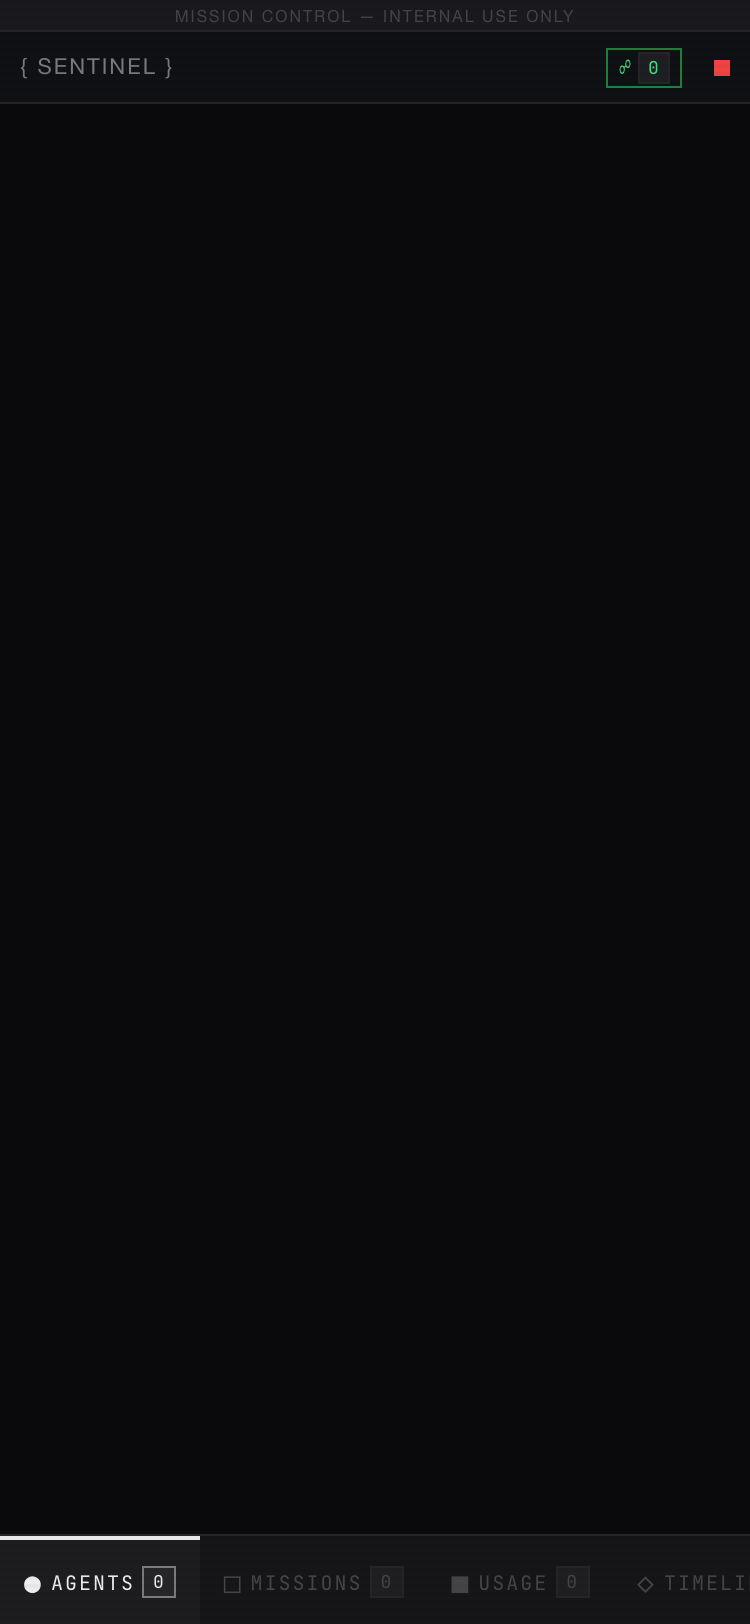
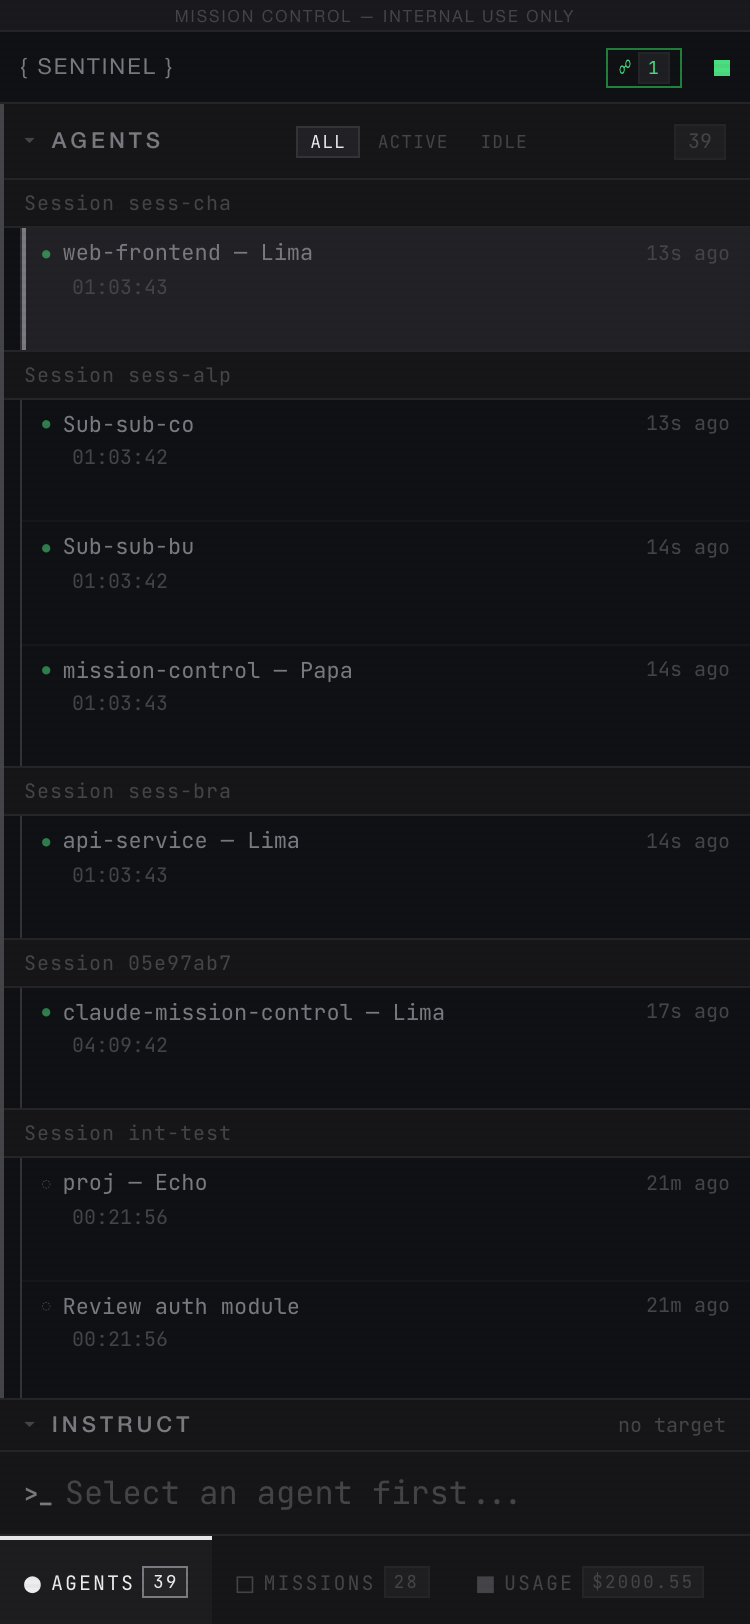
docs: refresh all screenshots and rewrite mission board section
Screenshots retaken with latest UI showing:
- Agent filter tabs (ALL/ACTIVE/IDLE)
- Auto-created missions from agent activity
- CLEAR COMPLETED button
- Context health bars with real session data

Mission Board section rewritten with:
- Code block showing the auto-creation flow
- Table of auto-mission sources with examples
- Managing missions feature table

diff --git a/README.md b/README.md
@@ -201,20 +201,38 @@ Each agent row shows rich, at-a-glance status:
 
 ### Mission Board
 
-Missions are **auto-created** from agent activity — you don't need to set them up manually.
+**Zero setup required.** Missions auto-create from agent activity — you never have to manually add them.
 
-| Source | How It Creates a Mission |
-|--------|------------------------|
-| **Subagent spawn** | Uses the `description` from the Agent tool (e.g. "Fix build errors", "Code review") |
-| **Main agent first tool call** | Derives from project folder + first action (e.g. "mission-control — server.ts") |
-| **Session end (Stop)** | Auto-completes the agent's active mission |
+When a Claude Code agent starts working, Mission Control automatically creates a mission for it:
+
+```
+Agent starts editing src/auth.ts in /projects/my-app
+    → Mission created: "my-app — auth.ts"
+    → Status: ACTIVE (assigned to agent)
+
+Agent spawns a subagent with description "Fix build errors"
+    → Mission created: "Fix build errors"
+    → Status: ACTIVE (assigned to subagent)
+
+Agent session ends (Stop hook fires)
+    → Mission auto-completed ✓
+```
+
+| Auto-Mission Source | Example Title |
+|---|---|
+| Main agent's first tool call | `my-app — server.ts` (project folder + file) |
+| Subagent with description | `Fix build errors`, `Code review` |
+| Subagent with prompt | `Research JWT best practices...` |
+
+**Managing missions:**
 
 | Feature | Description |
 |---------|-------------|
 | **Auto-populated** | Missions appear as agents start working — no manual creation needed |
-| **Live status** | Active (agent working) → Completed (session ended) with timestamps |
-| **Click to expand** | Shows description and action buttons (DONE, DELETE) |
-| **CLEAR COMPLETED** | Bulk-remove finished missions to keep the board clean |
+| **Live lifecycle** | `○ active` (agent working) → `✓ completed` (session ended) — automatic |
+| **Click to expand** | Shows action buttons: DONE, REOPEN, DELETE |
+| **CLEAR COMPLETED** | One-click bulk cleanup of finished missions |
+| **Manual creation** | Press `n` to add your own missions if needed |
 
 ### Sending Instructions to Agents
 
